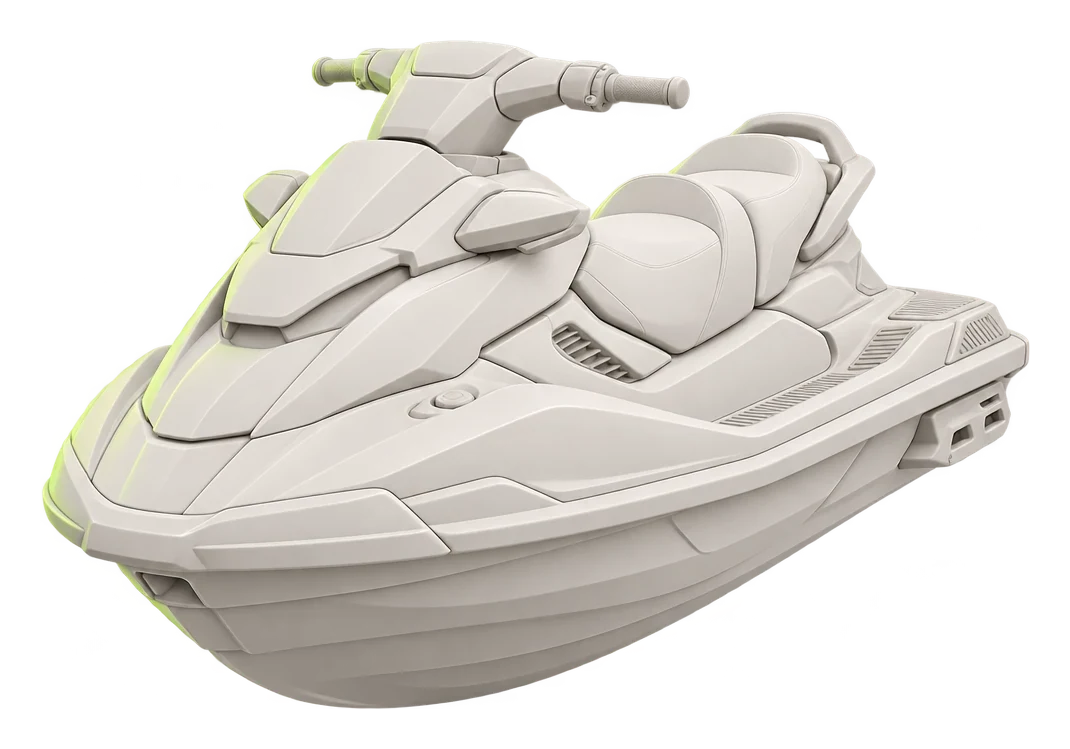
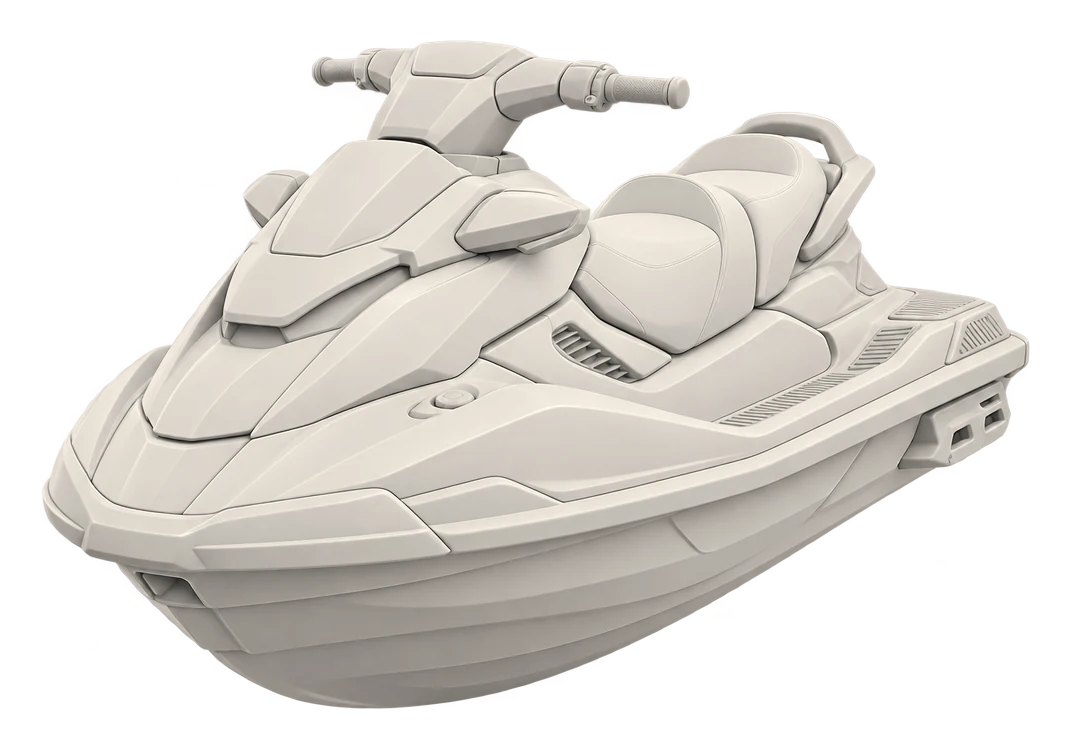
feat: all 17 renders in the finish story, in one clay grey and facing left
Every object now shows its render instead of an emoji. The renders are cropped to their outline
with an even margin, mirrored where they faced right, and recoloured from their brightness to
one warm clay grey, which drops the neon edge light. 1.7 MB for all 17.

Claude-Session: https://claude.ai/code/session_01Va1h9yTaQrNZVVR8F58SuY

diff --git a/src/features/workout/lib/lift-comparison.ts b/src/features/workout/lib/lift-comparison.ts
@@ -1,57 +1,42 @@
 /**
  * What the weight a workout moved compares with, lightest first: the finished story says the
- * user lifted the heaviest one the weight reaches. Weights in kg, typical and never more. `image`
- * is the object's clay render (`assets/images/lift-objects/`); until it is added, `emoji` stands
- * in for it.
+ * user lifted the heaviest one the weight reaches. Weights in kg, typical and never more; each
+ * with its clay render from `assets/images/lift-objects/` (all facing left, in one clay grey).
  */
 export const LIFT_OBJECTS = [
-  { id: 'washingMachine', kg: 70, image: null, emoji: '🧺' },
-  { id: 'motorbike', kg: 200, image: null, emoji: '🏍' },
   {
-    id: 'jetSki',
-    kg: 350,
-    image: require('@/assets/images/lift-objects/jet-ski.webp'),
-    emoji: '🚤',
+    id: 'washingMachine',
+    kg: 70,
+    image: require('@/assets/images/lift-objects/washing-machine.webp'),
   },
-  { id: 'smallCar', kg: 1000, image: null, emoji: '🚗' },
-  { id: 'hippo', kg: 1500, image: null, emoji: '🦛' },
-  { id: 'pickupTruck', kg: 2200, image: null, emoji: '🛻' },
-  { id: 'camperVan', kg: 3500, image: null, emoji: '🚐' },
+  { id: 'motorbike', kg: 200, image: require('@/assets/images/lift-objects/motorbike.webp') },
+  { id: 'jetSki', kg: 350, image: require('@/assets/images/lift-objects/jet-ski.webp') },
+  { id: 'smallCar', kg: 1000, image: require('@/assets/images/lift-objects/small-car.webp') },
+  { id: 'hippo', kg: 1500, image: require('@/assets/images/lift-objects/hippo.webp') },
+  { id: 'pickupTruck', kg: 2200, image: require('@/assets/images/lift-objects/pickup-truck.webp') },
+  { id: 'camperVan', kg: 3500, image: require('@/assets/images/lift-objects/camper-van.webp') },
   {
     id: 'miniExcavator',
     kg: 5000,
     image: require('@/assets/images/lift-objects/mini-excavator.webp'),
-    emoji: '🏗',
   },
-  {
-    id: 'tractor',
-    kg: 6000,
-    image: require('@/assets/images/lift-objects/tractor.webp'),
-    emoji: '🚜',
-  },
-  { id: 'tRex', kg: 8000, image: null, emoji: '🦖' },
-  {
-    id: 'privateJet',
-    kg: 10000,
-    image: require('@/assets/images/lift-objects/private-jet.webp'),
-    emoji: '🛩',
-  },
-  { id: 'bus', kg: 12000, image: null, emoji: '🚌' },
-  { id: 'fireTruck', kg: 16000, image: null, emoji: '🚒' },
-  { id: 'motorYacht', kg: 25000, image: null, emoji: '🛥' },
+  { id: 'tractor', kg: 6000, image: require('@/assets/images/lift-objects/tractor.webp') },
+  { id: 'tRex', kg: 8000, image: require('@/assets/images/lift-objects/t-rex.webp') },
+  { id: 'privateJet', kg: 10000, image: require('@/assets/images/lift-objects/private-jet.webp') },
+  { id: 'bus', kg: 12000, image: require('@/assets/images/lift-objects/city-bus.webp') },
+  { id: 'fireTruck', kg: 16000, image: require('@/assets/images/lift-objects/fire-truck.webp') },
+  { id: 'motorYacht', kg: 25000, image: require('@/assets/images/lift-objects/motor-yacht.webp') },
   // Fully loaded; the render shows its cargo.
+  { id: 'container', kg: 30000, image: require('@/assets/images/lift-objects/container.webp') },
   {
-    id: 'container',
-    kg: 30000,
-    image: require('@/assets/images/lift-objects/container.webp'),
-    emoji: '📦',
+    id: 'passengerJet',
+    kg: 41000,
+    image: require('@/assets/images/lift-objects/passenger-jet.webp'),
   },
-  { id: 'passengerJet', kg: 41000, image: null, emoji: '✈' },
   {
     id: 'spaceShuttle',
     kg: 78000,
     image: require('@/assets/images/lift-objects/space-shuttle.webp'),
-    emoji: '🚀',
   },
 ] as const;
 

diff --git a/src/features/workout/components/summary/lifted-page.tsx b/src/features/workout/components/summary/lifted-page.tsx
@@ -80,11 +80,7 @@ export function LiftedPage({ kg, object, units, bottomInset }: LiftedPageProps) 
         importantForAccessibility="no-hide-descendants"
       >
         <Glow />
-        {object.image ? (
-          <Image source={object.image} contentFit="contain" style={{ width: '100%', flex: 1 }} />
-        ) : (
-          <Text style={{ fontSize: 140, lineHeight: 170 }}>{object.emoji}</Text>
-        )}
+        <Image source={object.image} contentFit="contain" style={{ width: '100%', flex: 1 }} />
       </View>
       <View
         className="flex-row items-baseline gap-2.5"
